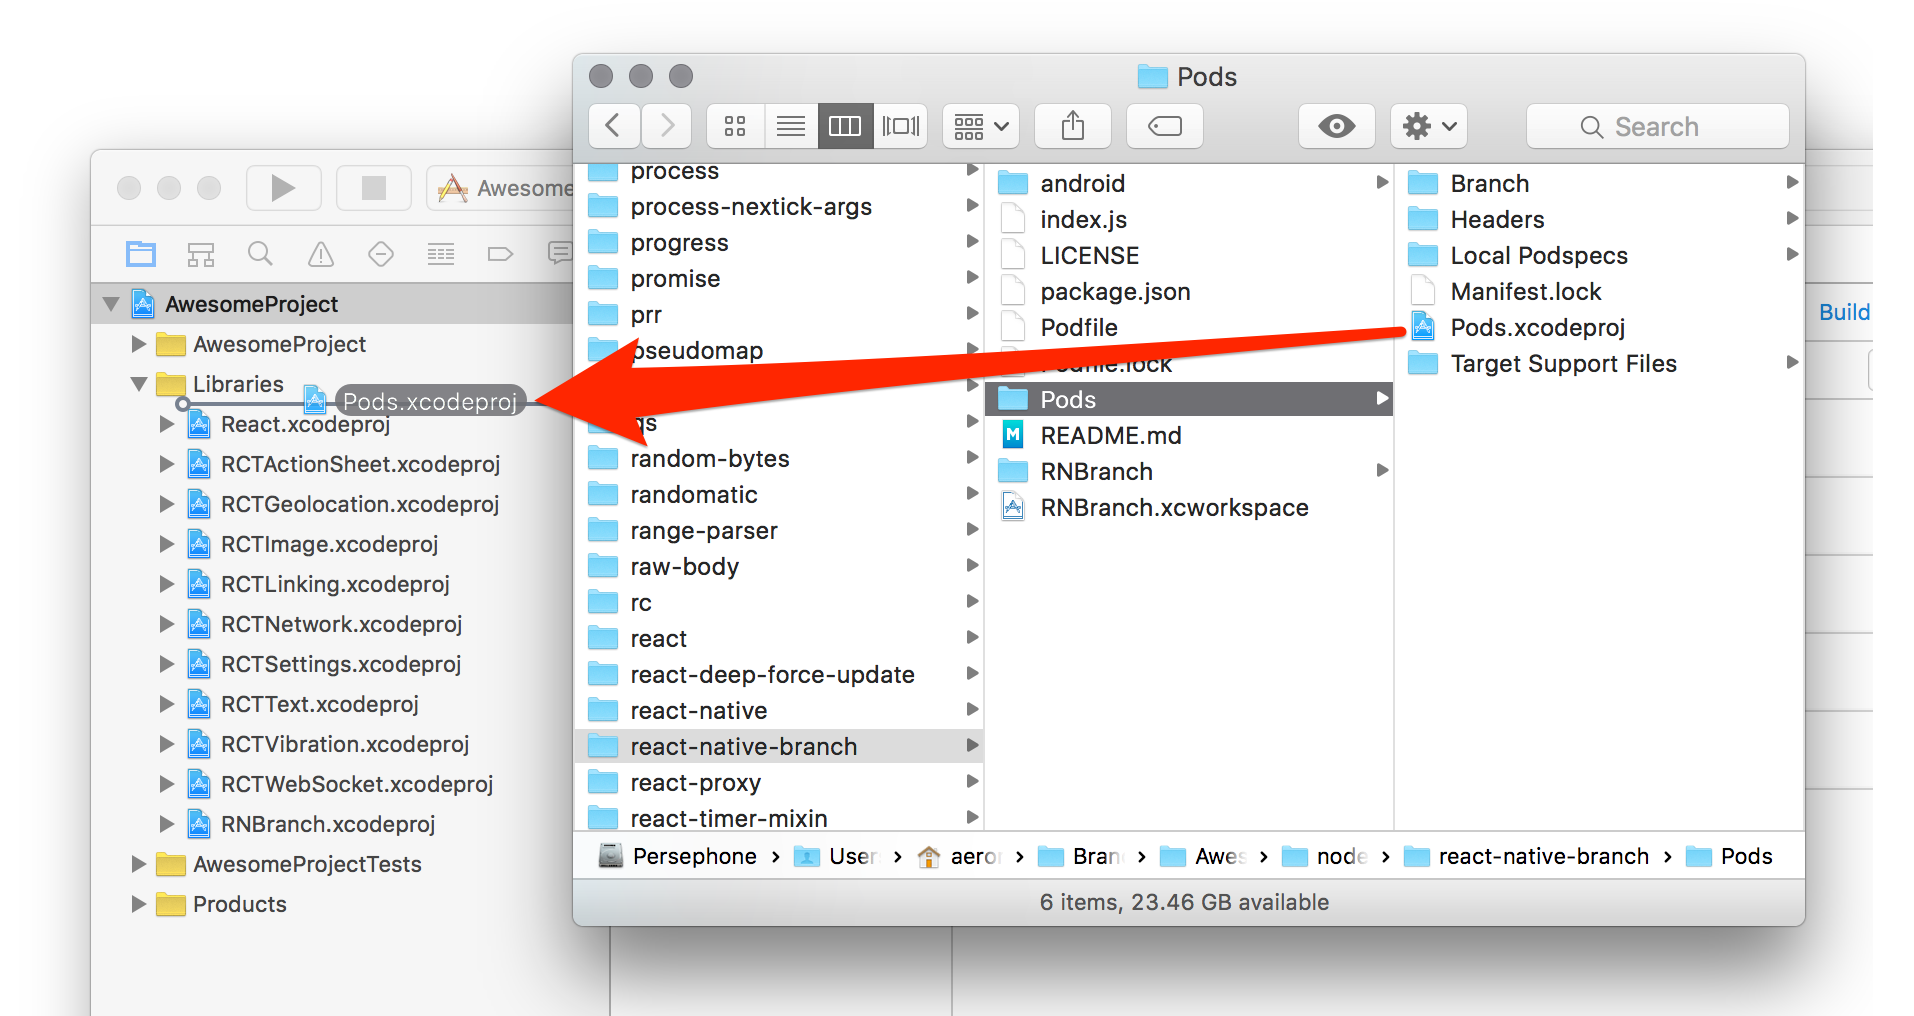
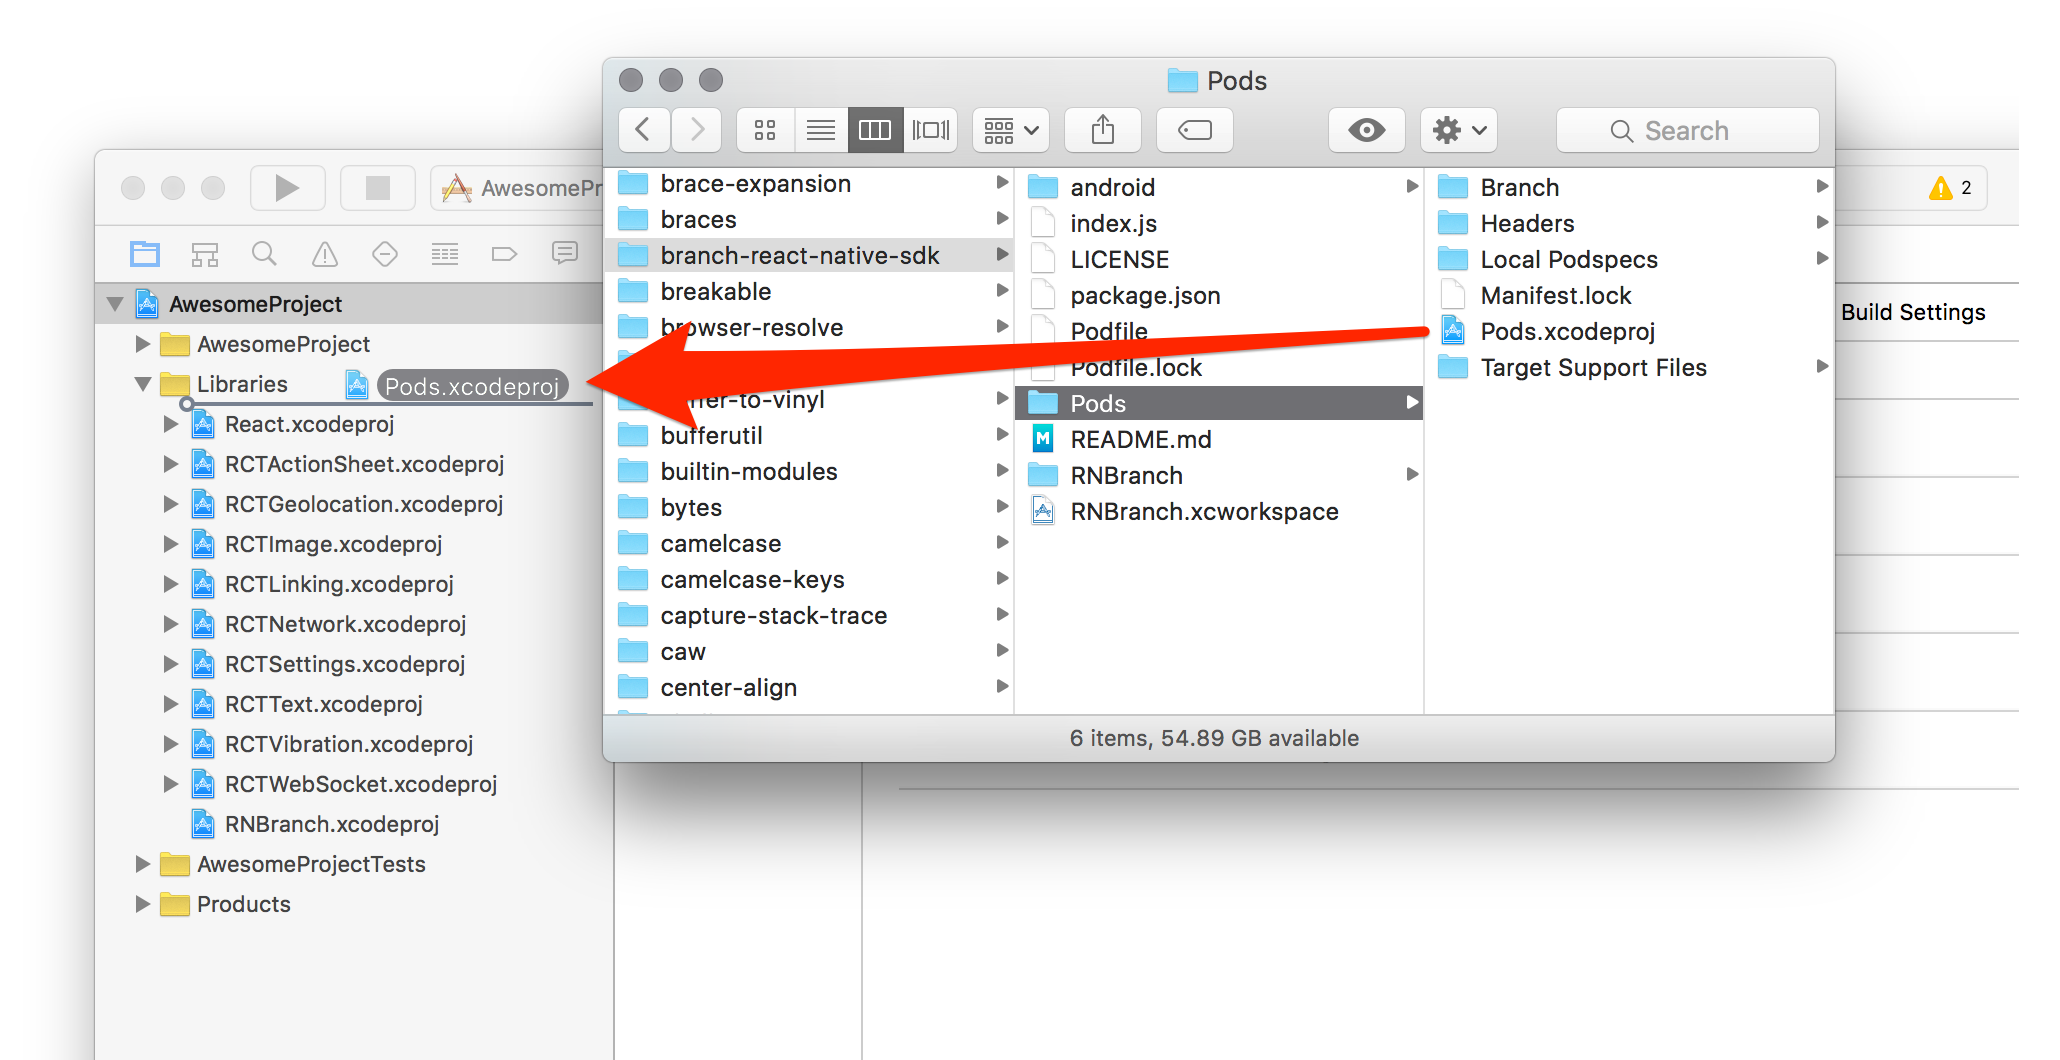
Change NPM module name

diff --git a/pages/getting-started/sdk-integration-guide.md b/pages/getting-started/sdk-integration-guide.md
@@ -214,7 +214,7 @@ We attempt to automatically add an Android manifest flag to support deep linking
 
 1. Navigate into the SDK package directory: `cd node_modules/branch-react-native-sdk`.
 1. Use CocoaPods to install dependencies: `pod install`.
-1. Drag **/node_modules/react-native-branch/Pods/Pods.xcodeproj** into the **Libraries** folder of your Xcode project. {% image src='/img/pages/getting-started/sdk-integration-guide/pod-import.png' full center alt='Import CocoaPods project' %}
+1. Drag **/node_modules/branch-react-native-sdk/Pods/Pods.xcodeproj** into the **Libraries** folder of your Xcode project. {% image src='/img/pages/getting-started/sdk-integration-guide/pod-import.png' full center alt='Import CocoaPods project' %}
 1. In Xcode, drag the `libBranch.a` Product from **Pods.xcodeproj** into your the **Link Binary with Libraries** section of **Build Phases** for your project's target. {% image src='/img/pages/getting-started/sdk-integration-guide/link-pod-binary.png' full center alt='Link Pod product with project binary' %}
 
 {% protip %}
@@ -230,10 +230,10 @@ Sometimes `rnpm` link creates incorrect relative paths, leading to compilation e
 {% highlight js %}
 ...
 
-include ':react-native-branch', ':app'
+include ':branch-react-native-sdk', ':app'
 
-// The relative path to the react-native-branch directory tends to often be prefixed with one too many "../"s
-project(':react-native-branch').projectDir = new File(rootProject.projectDir, '../node_modules/react-native-branch/android')
+// The relative path to the branch-react-native-sdk directory tends to often be prefixed with one too many "../"s
+project(':branch-react-native-sdk').projectDir = new File(rootProject.projectDir, '../node_modules/branch-react-native-sdk/android')
 {% endhighlight %}
 
 #### android/app/build.gradle
@@ -243,7 +243,7 @@ project(':react-native-branch').projectDir = new File(rootProject.projectDir, '.
 
 dependencies {
     ...
-    compile project(':react-native-branch')
+    compile project(':branch-react-native-sdk')
 }
 {% endhighlight %}
 {% endif %}

diff --git a/pages/getting-started/deep-link-routing.md b/pages/getting-started/deep-link-routing.md
@@ -469,7 +469,7 @@ $.onInitSessionFinished = function(data) {
 Inside the callback where Branch is initialized, you will want to examine the dictionary passed in the callback to see if the user opened a link to content. Below is an example assuming that the links correspond to pictures.
 
 {% highlight js %}
-var branch = require('react-native-branch');
+var branch = require('branch-react-native-sdk');
 
 //Receives the initSession's result as soon as it becomes available
 branch.getInitSessionResultPatiently(({params, error}) => {

diff --git a/pages/getting-started/integration-testing.md b/pages/getting-started/integration-testing.md
@@ -413,7 +413,7 @@ $.initialize = function(params) {
 To enable this mode in your test builds, add a `setDebug()` call function. Your code will end up looking something like this:
 
 {% highlight js %}
-var branch = require('react-native-branch');
+var branch = require('branch-react-native-sdk');
 
 //Receives the initSession's result as soon as it becomes available
 branch.getInitSessionResultPatiently(({params, error}) => { });
